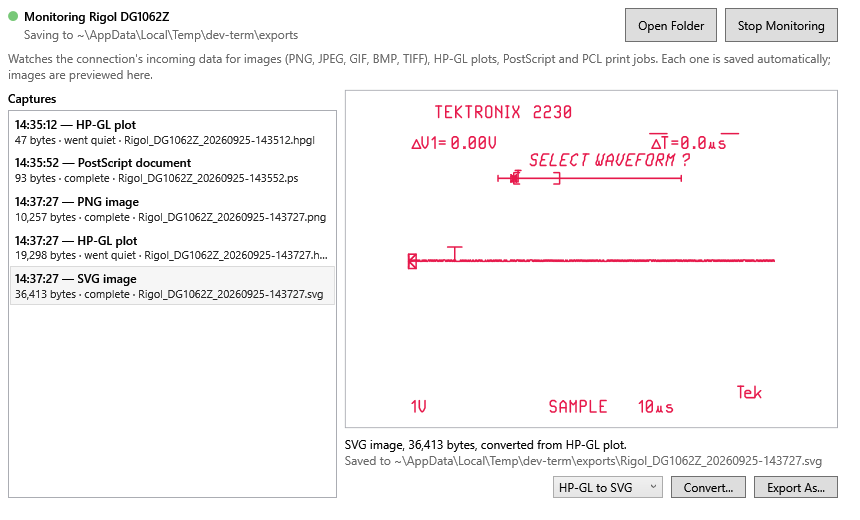
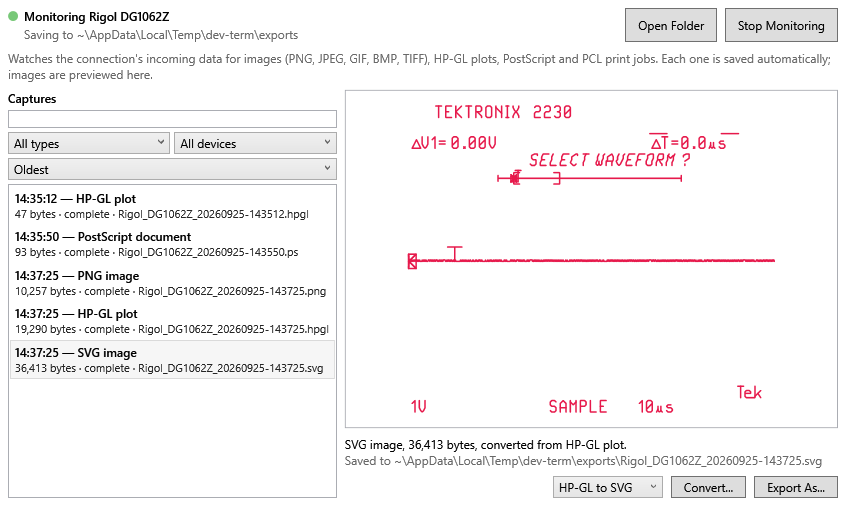
Add filter, search and sort to the WPF Stream Monitor list

Changed region(s): [[0.0, 0.2154, 0.393, 0.7385]]

diff --git a/src/DevTerm.Wpf/StreamMonitorWindow.xaml b/src/DevTerm.Wpf/StreamMonitorWindow.xaml
@@ -28,6 +28,22 @@
             </Grid.ColumnDefinitions>
             <DockPanel Grid.Column="0">
                 <TextBlock DockPanel.Dock="Top" Text="Captures" FontWeight="SemiBold" Margin="0,0,0,4" />
+                <!-- Filter, search and sort of the one list (StreamCaptureView; StreamMonitorWindow.RefreshList). -->
+                <TextBox x:Name="SearchBox" DockPanel.Dock="Top" Margin="0,0,0,4" ToolTip="Search device, type, file name or time" TextChanged="ListCriteria_Changed" />
+                <Grid DockPanel.Dock="Top" Margin="0,0,0,4">
+                    <Grid.ColumnDefinitions>
+                        <ColumnDefinition Width="*" />
+                        <ColumnDefinition Width="4" />
+                        <ColumnDefinition Width="*" />
+                    </Grid.ColumnDefinitions>
+                    <Grid.RowDefinitions>
+                        <RowDefinition Height="Auto" />
+                        <RowDefinition Height="Auto" />
+                    </Grid.RowDefinitions>
+                    <ComboBox x:Name="KindFilterBox" Grid.Column="0" ToolTip="Show only this content type" SelectionChanged="ListCriteria_Changed" />
+                    <ComboBox x:Name="DeviceFilterBox" Grid.Column="2" ToolTip="Show only this device" SelectionChanged="ListCriteria_Changed" />
+                    <ComboBox x:Name="SortBox" Grid.Row="1" Grid.ColumnSpan="3" Margin="0,4,0,0" ToolTip="Sort order" SelectionChanged="ListCriteria_Changed" />
+                </Grid>
                 <ListBox x:Name="CaptureList" SelectionChanged="CaptureList_SelectionChanged" ScrollViewer.HorizontalScrollBarVisibility="Disabled">
                     <ListBox.ItemTemplate>
                         <DataTemplate DataType="{x:Type local:StreamMonitorCaptureItem}">

diff --git a/src/DevTerm.Wpf/StreamMonitorWindow.xaml.cs b/src/DevTerm.Wpf/StreamMonitorWindow.xaml.cs
@@ -72,12 +72,17 @@ public partial class StreamMonitorWindow : Window
 
         ConvertModeBox.SelectedIndex = StreamConversionChoice.IndexOf(_choices, _converterOptions);
 
+        foreach (var sort in Enum.GetValues<StreamCaptureSort>())
+        {
+            SortBox.Items.Add(sort);
+        }
+
+        SortBox.SelectedItem = StreamCaptureSort.Oldest;
+
         monitor.LoadFromDisk();
         CaptureList.ItemsSource = Items;
-        foreach (var capture in monitor.Captures)
-        {
-            Items.Add(new StreamMonitorCaptureItem(capture));
-        }
+        _captures.AddRange(monitor.Captures);
+        RefreshList();
 
         monitor.CaptureAdded += OnCaptureAdded;
         monitor.StateChanged += OnStateChanged;
@@ -91,8 +96,63 @@ public partial class StreamMonitorWindow : Window
         SelectNewest();
     }
 
-    /// <summary>The capture list's rows, oldest first.</summary>
+    private readonly List<StreamMonitorCapture> _captures = [];
+    private bool _refreshing;
+
+    /// <summary>The capture list's rows: <see cref="StreamCaptureView.Apply"/> of every capture, oldest first unless the sort says otherwise.</summary>
     internal ObservableCollection<StreamMonitorCaptureItem> Items { get; } = [];
+
+    /// <summary>The filter, search and sort choices, exposed for tests.</summary>
+    internal (TextBox Search, ComboBox Kind, ComboBox Device, ComboBox Sort) Criteria => (SearchBox, KindFilterBox, DeviceFilterBox, SortBox);
+
+    private void ListCriteria_Changed(object sender, EventArgs e)
+    {
+        if (!_refreshing && IsInitialized)
+        {
+            RefreshList();
+        }
+    }
+
+    /// <summary>Rebuilds <see cref="Items"/> from the retained captures and the current filter/search/sort, keeping the filter choices current.</summary>
+    internal void RefreshList()
+    {
+        _refreshing = true;
+        try
+        {
+            RefillChoices(KindFilterBox, "All types", StreamCaptureView.Kinds(_captures));
+            RefillChoices(DeviceFilterBox, "All devices", StreamCaptureView.Devices(_captures));
+            var shown = StreamCaptureView.Apply(
+                _captures,
+                SearchBox.Text,
+                KindFilterBox.SelectedIndex > 0 ? (string)KindFilterBox.SelectedItem : null,
+                DeviceFilterBox.SelectedIndex > 0 ? (string)DeviceFilterBox.SelectedItem : null,
+                SortBox.SelectedItem is StreamCaptureSort sort ? sort : StreamCaptureSort.Oldest);
+            Items.Clear();
+            foreach (var capture in shown)
+            {
+                Items.Add(new StreamMonitorCaptureItem(capture));
+            }
+        }
+        finally
+        {
+            _refreshing = false;
+        }
+
+        SelectNewest();
+    }
+
+    private static void RefillChoices(ComboBox box, string any, IReadOnlyList<string> choices)
+    {
+        var keep = box.SelectedIndex > 0 ? box.SelectedItem as string : null;
+        box.Items.Clear();
+        box.Items.Add(any);
+        foreach (var choice in choices)
+        {
+            box.Items.Add(choice);
+        }
+
+        box.SelectedItem = keep is not null && choices.Contains(keep) ? keep : any;
+    }
 
     /// <summary>
     /// Decodes <paramref name="data"/> with WPF's built-in codecs (BMP, PNG, JPEG, GIF, TIFF, ICO,
@@ -166,13 +226,13 @@ public partial class StreamMonitorWindow : Window
     private void OnCaptureAdded(object? sender, StreamMonitorCapture capture) =>
         Dispatcher.BeginInvoke(() =>
         {
-            Items.Add(new StreamMonitorCaptureItem(capture));
-            while (Items.Count > StreamMonitor.MaxRetainedCaptures)
+            _captures.Add(capture);
+            while (_captures.Count > StreamMonitor.MaxRetainedCaptures)
             {
-                Items.RemoveAt(0);
+                _captures.RemoveAt(0);
             }
 
-            SelectNewest();
+            RefreshList();
         });
 
     private void OnStateChanged(object? sender, EventArgs e) => Dispatcher.BeginInvoke(RefreshState);
@@ -197,9 +257,10 @@ public partial class StreamMonitorWindow : Window
             return;
         }
 
-        CaptureList.SelectedIndex = Items.Count - 1;
-        CaptureList.ScrollIntoView(Items[^1]);
-        ShowCapture(Items[^1]);
+        var newest = Items.MaxBy(i => (i.Capture.LocalStartedAt, _captures.IndexOf(i.Capture)))!;
+        CaptureList.SelectedItem = newest;
+        CaptureList.ScrollIntoView(newest);
+        ShowCapture(newest);
     }
 
     private void CaptureList_SelectionChanged(object sender, SelectionChangedEventArgs e) =>

diff --git a/src/DevTerm.Configuration/StreamCaptureView.cs b/src/DevTerm.Configuration/StreamCaptureView.cs
@@ -1,0 +1,74 @@
+using System.IO;
+
+namespace DevTerm.Configuration;
+
+/// <summary>How the Stream Monitor's capture list is ordered.</summary>
+public enum StreamCaptureSort
+{
+    /// <summary>Oldest first - the monitor's own order.</summary>
+    Oldest,
+    Newest,
+    Largest,
+    Kind,
+    Device,
+}
+
+/// <summary>
+/// Filter, search and sort for the Stream Monitor's single capture list (docs/specs/stream-monitor.md),
+/// shared by both front ends so they show the same rows in the same order.
+/// </summary>
+public static class StreamCaptureView
+{
+    /// <summary>The distinct content types present, sorted, for a filter's choices.</summary>
+    public static IReadOnlyList<string> Kinds(IEnumerable<StreamMonitorCapture> captures) =>
+        [.. captures.Select(c => c.Capture.Kind.DisplayName).Distinct(StringComparer.OrdinalIgnoreCase).Order(StringComparer.OrdinalIgnoreCase)];
+
+    /// <summary>The distinct device names present, sorted.</summary>
+    public static IReadOnlyList<string> Devices(IEnumerable<StreamMonitorCapture> captures) =>
+        [.. captures.Select(c => c.DeviceName).Distinct(StringComparer.OrdinalIgnoreCase).Order(StringComparer.OrdinalIgnoreCase)];
+
+    /// <summary>
+    /// <paramref name="captures"/> narrowed to <paramref name="kind"/> and <paramref name="device"/> (null or
+    /// empty = any) and to those whose device, content type, end state, file name or time contains
+    /// <paramref name="search"/> (case-insensitive), in <paramref name="sort"/> order. Ties keep input order.
+    /// </summary>
+    public static IReadOnlyList<StreamMonitorCapture> Apply(
+        IEnumerable<StreamMonitorCapture> captures,
+        string? search = null,
+        string? kind = null,
+        string? device = null,
+        StreamCaptureSort sort = StreamCaptureSort.Oldest)
+    {
+        ArgumentNullException.ThrowIfNull(captures);
+        var query = captures.Where(c =>
+            (string.IsNullOrEmpty(kind) || string.Equals(c.Capture.Kind.DisplayName, kind, StringComparison.OrdinalIgnoreCase))
+            && (string.IsNullOrEmpty(device) || string.Equals(c.DeviceName, device, StringComparison.OrdinalIgnoreCase))
+            && Matches(c, search));
+
+        return sort switch
+        {
+            StreamCaptureSort.Newest => [.. query.OrderByDescending(c => c.LocalStartedAt)],
+            StreamCaptureSort.Largest => [.. query.OrderByDescending(c => c.Capture.Data.Length)],
+            StreamCaptureSort.Kind => [.. query.OrderBy(c => c.Capture.Kind.DisplayName, StringComparer.OrdinalIgnoreCase)],
+            StreamCaptureSort.Device => [.. query.OrderBy(c => c.DeviceName, StringComparer.OrdinalIgnoreCase)],
+            _ => [.. query.OrderBy(c => c.LocalStartedAt)],
+        };
+    }
+
+    private static bool Matches(StreamMonitorCapture capture, string? search)
+    {
+        if (string.IsNullOrWhiteSpace(search))
+        {
+            return true;
+        }
+
+        var haystack = string.Join(
+            '\n',
+            capture.DeviceName,
+            capture.Capture.Kind.DisplayName,
+            capture.EndLabel,
+            capture.SavedPath is { } path ? Path.GetFileName(path) : string.Empty,
+            capture.LocalStartedAt.ToString("yyyy-MM-dd HH:mm:ss", System.Globalization.CultureInfo.InvariantCulture));
+        return haystack.Contains(search.Trim(), StringComparison.OrdinalIgnoreCase);
+    }
+}

diff --git a/tests/DevTerm.Configuration.Tests/StreamCaptureViewTests.cs b/tests/DevTerm.Configuration.Tests/StreamCaptureViewTests.cs
@@ -1,0 +1,59 @@
+using DevTerm.Core.StreamContent;
+using DevTerm.Test.Utilities;
+
+namespace DevTerm.Configuration.Tests;
+
+[TestCategory(TestCategories.Unit)]
+[TestClass]
+public sealed class StreamCaptureViewTests
+{
+    private static readonly DateTimeOffset _t0 = new(2026, 10, 3, 9, 0, 0, TimeSpan.Zero);
+
+    private static StreamMonitorCapture Make(StreamContentKind kind, int size, string device, int minute, string file) =>
+        new(new StreamCapture(kind, new byte[size], _t0, StreamCaptureEnd.Complete, WasDeclared: false), device, _t0.AddMinutes(minute), @"C:\x\" + file, null);
+
+    private static readonly StreamMonitorCapture _scopeBmp = Make(StreamContentKind.Bmp, 78_000, "tds2024", 5, "tds2024_a.bmp");
+    private static readonly StreamMonitorCapture _awgPng = Make(StreamContentKind.Png, 4_000, "dg1062z", 1, "dg1062z_b.png");
+    private static readonly StreamMonitorCapture _scopePng = Make(StreamContentKind.Png, 9_000, "tds2024", 3, "tds2024_c.png");
+
+    private static readonly StreamMonitorCapture[] _all = [_scopeBmp, _awgPng, _scopePng];
+
+    [TestMethod]
+    public void Apply_NoCriteria_SortsOldestFirst() =>
+        Assert.AreSequenceEqual([_awgPng, _scopePng, _scopeBmp], StreamCaptureView.Apply(_all));
+
+    [TestMethod]
+    public void Apply_SortsNewestLargestKindAndDevice()
+    {
+        Assert.AreSequenceEqual([_scopeBmp, _scopePng, _awgPng], StreamCaptureView.Apply(_all, sort: StreamCaptureSort.Newest));
+        Assert.AreSequenceEqual([_scopeBmp, _scopePng, _awgPng], StreamCaptureView.Apply(_all, sort: StreamCaptureSort.Largest));
+        Assert.AreEqual(StreamContentKind.Bmp.DisplayName, StreamCaptureView.Apply(_all, sort: StreamCaptureSort.Kind)[0].Capture.Kind.DisplayName);
+        Assert.AreEqual("dg1062z", StreamCaptureView.Apply(_all, sort: StreamCaptureSort.Device)[0].DeviceName);
+    }
+
+    [TestMethod]
+    public void Apply_FiltersByKindAndDevice_AndCombines()
+    {
+        Assert.AreSequenceEqual([_awgPng, _scopePng], StreamCaptureView.Apply(_all, kind: StreamContentKind.Png.DisplayName));
+        Assert.AreSequenceEqual([_scopePng, _scopeBmp], StreamCaptureView.Apply(_all, device: "TDS2024"));
+        Assert.AreSequenceEqual([_scopePng], StreamCaptureView.Apply(_all, kind: StreamContentKind.Png.DisplayName, device: "tds2024"));
+    }
+
+    [TestMethod]
+    public void Apply_SearchMatchesDeviceKindFileAndTime_CaseInsensitively()
+    {
+        Assert.AreSequenceEqual([_awgPng], StreamCaptureView.Apply(_all, search: "DG1062"));
+        Assert.AreSequenceEqual([_scopeBmp], StreamCaptureView.Apply(_all, search: "bmp image"));
+        Assert.AreSequenceEqual([_scopePng], StreamCaptureView.Apply(_all, search: "_c.png"));
+        Assert.AreSequenceEqual([_scopeBmp], StreamCaptureView.Apply(_all, search: "2026-10-03 09:05"));
+        Assert.IsEmpty(StreamCaptureView.Apply(_all, search: "nothing like this"));
+        Assert.HasCount(3, StreamCaptureView.Apply(_all, search: "  "));
+    }
+
+    [TestMethod]
+    public void KindsAndDevices_AreDistinctAndSorted()
+    {
+        Assert.AreSequenceEqual(["BMP image", "PNG image"], StreamCaptureView.Kinds(_all));
+        Assert.AreSequenceEqual(["dg1062z", "tds2024"], StreamCaptureView.Devices(_all));
+    }
+}

diff --git a/tests/DevTerm.Wpf.Tests/StreamMonitorWindowTests.cs b/tests/DevTerm.Wpf.Tests/StreamMonitorWindowTests.cs
@@ -98,6 +98,47 @@ public sealed class StreamMonitorWindowTests
     }
 
     [TestMethod]
+    public void FilterSearchAndSort_NarrowTheOneList()
+    {
+        StaTestRunner.Run(async () =>
+        {
+            await using var bench = await StreamMonitorBench.StartAsync("Bench scope");
+            await bench.CaptureAsync(StreamContentSamples.Hpgl());
+            await bench.CaptureAsync(ScopeScreenPng());
+
+            var window = new StreamMonitorWindow(bench.Monitor);
+            StaTestRunner.DoEvents();
+            var (search, kind, device, sort) = window.Criteria;
+            Assert.HasCount(2, window.Items);
+            Assert.Contains("PNG image", kind.Items.Cast<string>().ToList());
+
+            kind.SelectedItem = "PNG image";
+            StaTestRunner.DoEvents();
+            Assert.HasCount(1, window.Items);
+            Assert.AreEqual("PNG image", window.Items[0].Capture.Capture.Kind.DisplayName);
+
+            kind.SelectedIndex = 0;
+            search.Text = "hp-gl";
+            StaTestRunner.DoEvents();
+            Assert.HasCount(1, window.Items);
+            Assert.AreEqual("HP-GL plot", window.Items[0].Capture.Capture.Kind.DisplayName);
+
+            search.Text = "no such thing";
+            StaTestRunner.DoEvents();
+            Assert.IsEmpty(window.Items);
+            Assert.IsFalse(window.ExportAsButton.IsEnabled);
+
+            search.Text = string.Empty;
+            sort.SelectedItem = StreamCaptureSort.Largest;
+            StaTestRunner.DoEvents();
+            Assert.HasCount(2, window.Items);
+            Assert.IsGreaterThanOrEqualTo(window.Items[1].Capture.Capture.Data.Length, window.Items[0].Capture.Capture.Data.Length);
+            Assert.AreEqual(1, device.Items.Count - 1, "One device, so one choice besides 'All devices'.");
+            window.Close();
+        });
+    }
+
+    [TestMethod]
     public void HpglCapture_SaysPreviewIsNotAvailableYet()
     {
         StaTestRunner.Run(async () =>

diff --git a/docs/specs/stream-monitor.md b/docs/specs/stream-monitor.md
@@ -26,6 +26,7 @@ The shared behavior lives outside both front ends: detection in `DevTerm.Core.St
 | Explanation | Two fixed lines | One wrapped line | What's detected, and (TUI) that there's no preview |
 | Capture list | `ListView`, one row per capture: `HH:mm:ss  TYPE  size  end  file` | `ListBox`, two lines per capture: `HH:mm:ss — {kind}` / `{size} bytes · {end} · {file}` | Oldest first; the newest is selected whenever one arrives. Keeps the last 100 (`StreamMonitor.MaxRetainedCaptures`) — saved files are never deleted |
 | Detail | Two lines under the list: `{kind}, {size} bytes, {end}[ (declared by the command)].` / `Saved as {file} in the folder above.` or `Not saved: {reason}` | Same first line; second line `Saved to {path}` or `Not saved: {reason}` | For the selected capture |
+| List criteria | — (not built yet) | A search box (device, content type, file name or time, case-insensitive), a content-type filter, a device filter and a sort (Oldest, Newest, Largest, Kind, Device) above the list | One list, not parallel captures. `StreamCaptureView.Apply` (shared, in `DevTerm.Configuration`) does the work. The newest capture by time is selected after each change; nothing matching shows the empty message |
 | Preview | — | `Image` for BMP/PNG/JPEG/GIF/TIFF (WPF's built-in decoders, scaled down to fit, never up) or a converted SVG (`SvgPreview`); otherwise a message | See States |
 
 "End" is how the capture finished (`StreamMonitorCapture.EndLabel`):
@@ -164,8 +165,8 @@ a converter tool covers it, and a profile still saying `webservice` now fails va
   can't yet.
 - **One capture at a time**: a second declared/sniffed stream starting while one is still in progress
   is appended to the first, not captured separately (the proposal's open question on correlation).
-  **Decided 2026-10-03:** keep one list view rather than parallel captures, and add filter, search and sort by device, content
-  type, time and similar fields. Not built yet; the correlation question itself stays open.
+  **Decided 2026-10-03:** keep one list view rather than parallel captures, with filter, search and sort. Built in WPF
+  2026-10-03 (see List criteria); the TUI window doesn't have it yet; the correlation question itself stays open.
 - **No retention/cleanup** of the export folder.
 - **Not verified against real hardware** yet — the DG1062Z screen capture (a real BMP in a
   definite-length block) and the TDS2024's `HARDCopy STARt` output (BMP/TIFF/EPS/PCL depending on

diff --git a/docs/changes/2026-10-03.md b/docs/changes/2026-10-03.md
@@ -251,3 +251,7 @@ Both front ends now switch tabs with Alt+Right (next) and Alt+Left (previous), w
 ## Control-panel hint on connect
 
 `ManifestPanelHint.For(CliOptions)` (DevTerm.Configuration) returns a status line when the profile's `ManifestName` resolves to a manifest that declares a panel; the TUI (startup and reconnect) and WPF (startup and profile switch) print it where the missing-manifest warning goes (the warning wins if both apply). It never opens the panel. Remembering the choice per profile is not built. Tests: `ManifestPanelHintTests` (3, using the bundled `loopback-sensor-demo`).
+
+## Stream Monitor filter, search and sort (WPF)
+
+`StreamCaptureView` (DevTerm.Configuration) filters by content type and device, searches device/type/end/file/time, and sorts (Oldest, Newest, Largest, Kind, Device). `StreamMonitorWindow` keeps every retained capture and rebuilds `Items` from it on each change; the newest by time stays selected. The criteria are stacked in two rows because three combos in one row clipped "All devices" at the minimum width (caught by `UiLayoutReviewTests`). Tests: `StreamCaptureViewTests` (5), `StreamMonitorWindowTests.FilterSearchAndSort_NarrowTheOneList`. WPF suite 250 passed. Regenerated the three `wpf-stream-monitor*` screenshots; the device-profile and theme images drift on this machine as before and were reverted. TUI window not done.

diff --git a/BACKLOG.md b/BACKLOG.md
@@ -68,7 +68,7 @@ the rest.
 
 - **Multi-session tabs:** the merged time-ordered view of logging and the Stream Monitor across tabs (per-tab history, logging, empty window and Alt+Left/Right already built; [multi-session-ui](docs/design/multi-session-ui.md)).
 - **Remember a dismissed/used control-panel hint per profile** (the hint itself shipped 2026-10-03) ([device-control-panel spec](docs/specs/device-control-panel.md)).
-- **Stream Monitor filter, search and sort** by device, content type and time, in one list ([stream-monitor spec](docs/specs/stream-monitor.md)).
+- **Stream Monitor filter, search and sort in the TUI window** (WPF has it; `StreamCaptureView` is shared) ([stream-monitor spec](docs/specs/stream-monitor.md)).
 - **Per-module destructive-command confirmation**, declared in a manifest or profile ([device-control-modules](docs/design/device-control-modules.md)).
 - **Chart hover readout, table view and history export** ([spec](docs/specs/device-control-panel.md)).
 - **TUI terminal-palette theme, and a live-following `system` theme** ([theming](docs/design/theming.md)).

diff --git a/docs/user-guide/stream-monitor.md b/docs/user-guide/stream-monitor.md
@@ -72,6 +72,8 @@ decodes itself (PNG, JPEG, GIF, BMP, TIFF):
 
 ![WPF Stream Monitor previewing a captured PNG screen dump](images/wpf-stream-monitor.png)
 
+In WPF the box above the list searches captures by device, type, file name or time; the two drop-downs below it filter by content type and device, and the last one sorts (oldest, newest, largest, by type or by device).
+
 HP-GL, PostScript and PCL are captured and saved, but can't be previewed directly:
 
 ![WPF Stream Monitor with an HP-GL capture selected](images/wpf-stream-monitor-hpgl.png)
